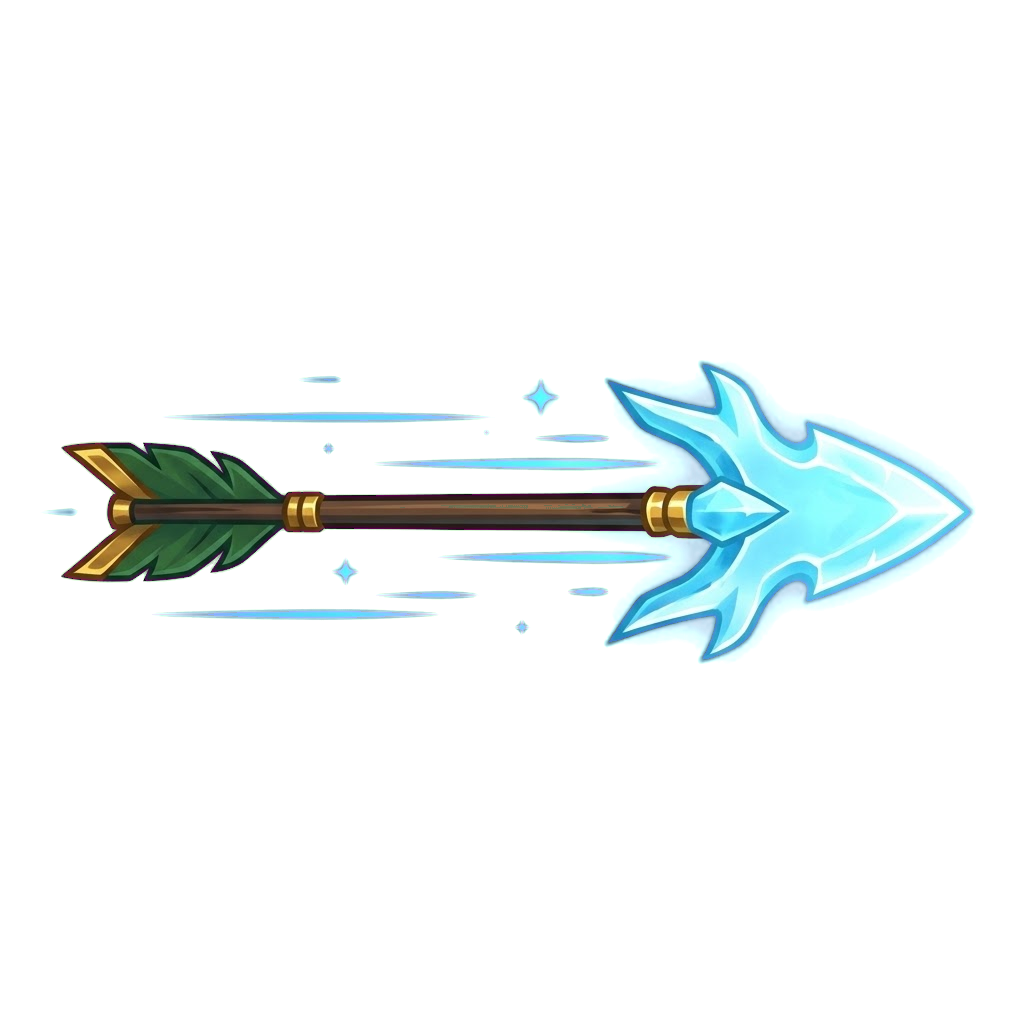
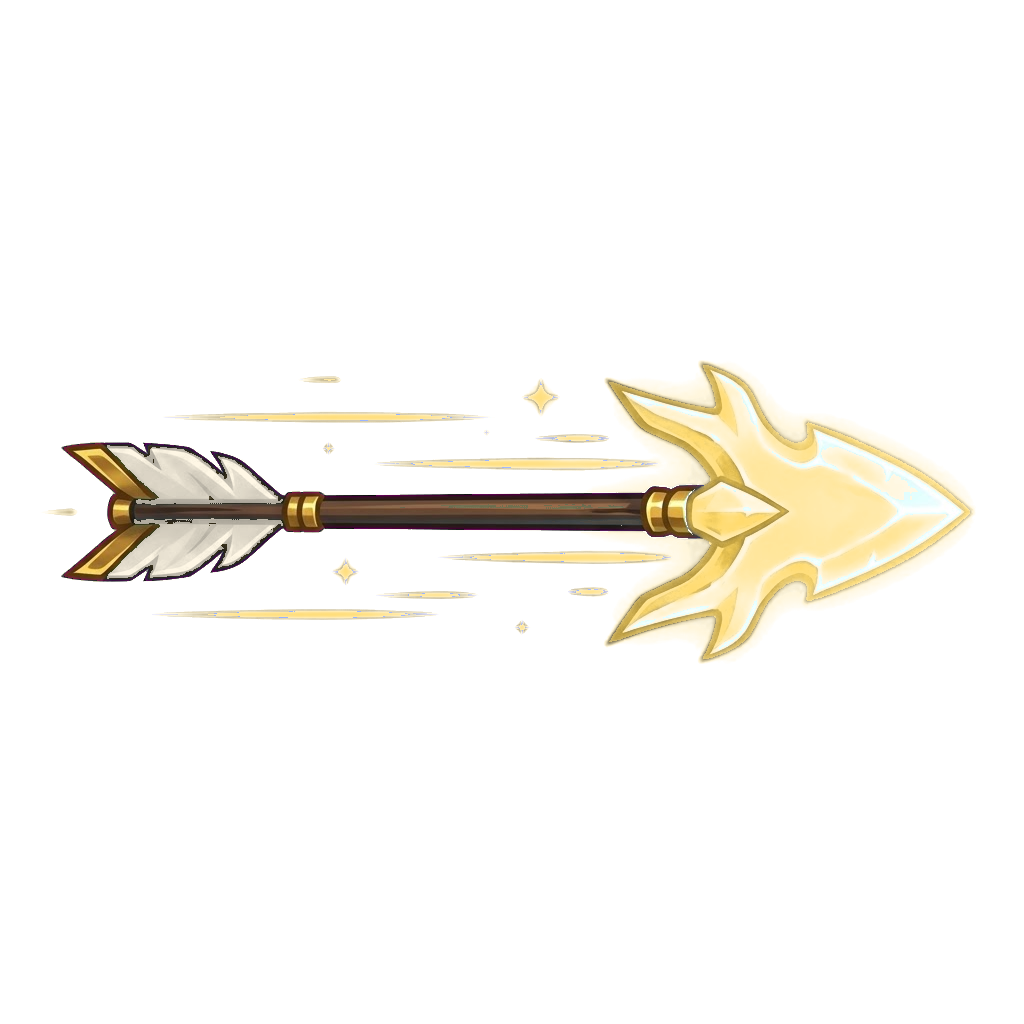
Tyra i falkvitt: pilen, träffen, glöden och fjäderspåret vita/guld i stället för isblått (Fenns spökljus hade samma färg); pilbilden omfärgad (guldspets, vita fjädrar); hennes V2-båge en fjärdedel längre i matchen (WeaponDef.MatchScale 1,25), menyn som förut. Rickard 18 nov: "falkvit låter bra" (des
Claude-Session: https://claude.ai/code/session_01M7eBmsdbX5dujjbvcNASSn

Changed region(s): [[0.0938, 0.3438, 0.9688, 0.6562], [0.3125, 0.5312, 0.3438, 0.5625]]

diff --git a/Assets/BAM/Art/Fx.cs b/Assets/BAM/Art/Fx.cs
@@ -1325,7 +1325,7 @@ namespace BAM.Art
         }
 
         // Each hero's two special colours (main, accent) from the MLBB clip analysis (bam-work/art/mlbb-miya/skill-fx-analys.md),
-        // index = HeroId: Bram, Fenn, Tyra, Moa, Knut, Tikta, Blast, Bonk, Hilde, Oaken, Kugg, Ragn, Nassla, Skrall, Ravna. Tyra keeps the cyan her bolt already has.
+        // index = HeroId: Bram, Fenn, Tyra, Moa, Knut, Tikta, Blast, Bonk, Hilde, Oaken, Kugg, Ragn, Nassla, Skrall, Ravna. Tyra's is white-gold since 2026-11-18 (Rickard "falkvit låter bra": her cyan was Fenn's pale blue; hero design review 16 Nov).
         static Vector3 lastBounce;
         static float lastBounceT = -10f;
 
@@ -1334,7 +1334,7 @@ namespace BAM.Art
 
         static readonly Color32[] heroMain =
         {
-            new Color32(255, 138, 42, 255), new Color32(191, 239, 255, 255), new Color32(180, 240, 255, 255), new Color32(255, 179, 0, 255),
+            new Color32(255, 138, 42, 255), new Color32(191, 239, 255, 255), new Color32(255, 226, 150, 255), new Color32(255, 179, 0, 255),
             new Color32(47, 140, 255, 255), new Color32(124, 255, 79, 255), new Color32(255, 90, 31, 255),
             new Color32(196, 140, 72, 255), // Bonk: club wood and dust
             new Color32(255, 150, 50, 255), // Hilde: powder flash
@@ -1437,12 +1437,13 @@ namespace BAM.Art
                     break;
                 case ProjKind.TyraBolt:
                     SpecialHit((int)HeroId.Tyra, p, 1f);
-                    ImpactRing(new Vector3(p.x, 0f, p.z), 1.1f, new Color(0.75f, 0.95f, 1f, 1f), 0.3f);
-                    Pow(p, 1, new Color32(180, 240, 255, 255), 0.9f, 0.16f);
-                    Rays(p, new Color(0.7f, 0.95f, 1f, 1f), 1.1f, 0.18f);
+                    // white-gold since 2026-11-18 (falkvit; the ice blue was Fenn's ghost light)
+                    ImpactRing(new Vector3(p.x, 0f, p.z), 1.1f, new Color(1f, 0.9f, 0.6f, 1f), 0.3f);
+                    Pow(p, 1, new Color32(255, 226, 150, 255), 0.9f, 0.16f);
+                    Rays(p, new Color(1f, 0.88f, 0.55f, 1f), 1.1f, 0.18f);
                     HitStar(p, Color.white, 1.3f, 0.18f);
-                    Stars(p, 3, new Color32(200, 245, 255, 255), 0.45f, 1.5f, 0.3f, 0.6f);
-                    Sparks(p, 8, new Color32(180, 240, 255, 255), 0.12f, 4f, 0.3f, 0.8f);
+                    Stars(p, 3, new Color32(255, 246, 215, 255), 0.45f, 1.5f, 0.3f, 0.6f);
+                    Sparks(p, 8, new Color32(255, 226, 150, 255), 0.12f, 4f, 0.3f, 0.8f);
                     break;
                 case ProjKind.MoaBolt:
                     // a soft honey splat: warm-white pop, drops flung out, a small honey ring (support colours, no streaks)
@@ -1597,11 +1598,12 @@ namespace BAM.Art
                 case ProjKind.TyraBolt:
                     // a bright ball of light at the head, thin streaks and wisps behind, and a faint line of light left lying along
                     // the path for half a second (Rickard 2026-10-28)
-                    Glow(p, 1, new Color32(200, 245, 255, 255), 0.75f, 0f, 0.08f);
-                    Stars(p, 1, new Color32(200, 245, 255, 255), 0.3f, 0.2f, 0.25f, 0f, 0.05f);
-                    SparksAlong(p, -dir, 1, new Color32(180, 240, 255, 255), 0.09f, 3f, 0.2f, 12f);
-                    if (Random.value < 0.5f) Wisps(p, 1, new Color32(170, 235, 255, 200), 0.35f, 0.3f, 0.4f, 0.4f, 0.05f);
-                    Glow(new Vector3(p.x, 0.15f, p.z), 1, new Color32(150, 225, 255, 110), 0.45f, 0f, 0.5f);
+                    // white-gold since 2026-11-18 (falkvit; was ice blue, the same as Fenn's ghost light)
+                    Glow(p, 1, new Color32(255, 246, 215, 255), 0.75f, 0f, 0.08f);
+                    Stars(p, 1, new Color32(255, 246, 215, 255), 0.3f, 0.2f, 0.25f, 0f, 0.05f);
+                    SparksAlong(p, -dir, 1, new Color32(255, 226, 150, 255), 0.09f, 3f, 0.2f, 12f);
+                    if (Random.value < 0.5f) Wisps(p, 1, new Color32(255, 240, 200, 200), 0.35f, 0.3f, 0.4f, 0.4f, 0.05f);
+                    Glow(new Vector3(p.x, 0.15f, p.z), 1, new Color32(255, 220, 140, 110), 0.45f, 0f, 0.5f);
                     break;
                 // a small glow at each arrow's head (0.3 blobbed the five heads into one near the bow, where they fly 0.17 tiles apart a
                 // tile out), embers rarer

diff --git a/Assets/BAM/Art/Weapons.cs b/Assets/BAM/Art/Weapons.cs
@@ -65,6 +65,10 @@ namespace BAM.Art
         /// in the fist's own grip, Unity's retargeted idle turned her hand so the bow lay level across her legs (ANIM-22).</summary>
         public Hold Menu;
         public int MenuSign;
+        /// <summary>Code only: the weapon's length in a match as a share of <see cref="Len"/> (0 = the same as on the menu stage). Tyra's
+        /// V2 bow 1.25 (Rickard 2026-11-18, hero design review 16 Nov: from the match camera her bow could not be seen at all); the
+        /// menu keeps Len, as he tuned it.</summary>
+        public float MatchScale;
         /// <summary>Which way the flat side of the run hold goes: 0 = as the idle votes (BAM's own pick), 1 or -1 fixed (Weapon Tuner
         /// "Walk: flip", Rickard 2026-10-30: "tyra i game norr och vänster gå blir pilbågen bakofram vänd").</summary>
         public int RunSign;
@@ -469,6 +473,7 @@ namespace BAM.Art
             // quiver on her back, slanting over her right shoulder. Her V2 rig has all its finger bones, so her fingers play the clips
             GearDef ty = g[(int)HeroId.Tyra];
             ty.Weapons[0].Model = "v2_tyra_bow";
+            ty.Weapons[0].MatchScale = 1.25f; // a quarter longer in a match, so the bow reads from the match camera (WeaponDef.MatchScale)
             ty.StillFingers = false;
             ty.Worn = new[] { new WornDef { Model = "v2_tyra_quiver", Bone = Chest, From = LArm, To = RArm, Height = 0.3f, At = new Vector3(0.03f, -0.2f, -0.08f), Turn = new Vector3(0f, 0f, -20f) } };
 
@@ -1292,14 +1297,18 @@ namespace BAM.Art
         void Place(int i)
         {
             WeaponDef W = defs[i];
-            float L = W.Len * figH, k = L / meshH[i] / handS[i];
+            float L = PlacedLen(W) * figH, k = L / meshH[i] / handS[i];
             Transform t = wT[i];
             bindP[i] = palmL[i] - handleV[i] * (W.Grip * L);
             bindS[i] = new Vector3(k, k, k);
             t.localPosition = bindP[i]; t.localRotation = bindR[i]; t.localScale = bindS[i];
             gripL[i] = new Vector3(shaftC[i].x, W.Grip * meshH[i], shaftC[i].z);
-            placedLen[i] = W.Len; placedGrip[i] = W.Grip;
+            placedLen[i] = PlacedLen(W); placedGrip[i] = W.Grip;
         }
+
+        // the length the weapon is placed at: Len, times its MatchScale away from the menu stage (OnMenu is set after the build, so
+        // the check in Tick places it again when it changes)
+        float PlacedLen(WeaponDef W) => OnMenu || W.MatchScale <= 0f ? W.Len : W.Len * W.MatchScale;
 
         // as MxOwnShield: on an anchor under the model, placed from the hand every frame (Tick), so it never lies flat with the wrist
         void AddShield(ShieldDef S, Animator an, float H, List<Renderer> rends, List<Material> op, List<Material> fd)
@@ -1476,7 +1485,7 @@ namespace BAM.Art
                 Transform t = wT[i];
                 if (t == null) continue;
                 WeaponDef W = defs[i];
-                if (W.Len != placedLen[i] || W.Grip != placedGrip[i]) Place(i);
+                if (PlacedLen(W) != placedLen[i] || W.Grip != placedGrip[i]) Place(i);
                 if ((W.Thrown || hideHeld) && (hideSide == 0 || hideSide > 0 != W.Left)) t.localScale = bindS[i] * show;
                 else if (t.localScale != bindS[i]) t.localScale = bindS[i]; // a held weapon put back by a swing during its throw
                 float rest = (1f - Mathf.Clamp01(actW)) * liveW;
@@ -2000,7 +2009,7 @@ namespace BAM.Art
                 Transform t = wT[i];
                 if (t == null) continue;
                 WeaponDef W = defs[i];
-                if (W.Len != placedLen[i] || W.Grip != placedGrip[i]) Place(i);
+                if (PlacedLen(W) != placedLen[i] || W.Grip != placedGrip[i]) Place(i);
                 Quaternion q = Quaternion.Inverse(root.rotation) * hand[i].rotation;
                 var v = new Vector4(q.x, q.y, q.z, q.w);
                 if (Vector4.Dot(v, refSum[i]) < 0f) v = -v; // an idle's frames are close together: summed on one side they average

diff --git a/Assets/BAM/Art/WorldViews.cs b/Assets/BAM/Art/WorldViews.cs
@@ -401,7 +401,7 @@ namespace BAM.Art
         {
             switch (k)
             {
-                case ProjKind.TyraBolt: c = new Color(0.7f, 0.95f, 1f, 0.9f); return true;
+                case ProjKind.TyraBolt: c = new Color(1f, 0.93f, 0.72f, 0.9f); return true; // white-gold (falkvit, 2026-11-18; was ice blue)
                 case ProjKind.MoaBolt: c = new Color(1f, 0.8f, 0.25f, 0.8f); return true;
                 case ProjKind.BlastFire: c = new Color(1f, 0.55f, 0.2f, 0.45f); return true; // a faint fuse-smoke streak behind the bomb
                 case ProjKind.TiktaNeedleSpecial: c = new Color(0.2f, 1f, 0.85f, 0.8f); return true;
@@ -672,8 +672,8 @@ namespace BAM.Art
                 // it went, and a short light pillar stands where it struck
                 if (kind == ProjKind.TyraBolt && hit)
                 {
-                    Fx.Spikes(vis.position, dir, new Color(0.75f, 0.95f, 1f, 1f), 1.4f, 0.2f);
-                    Fx.Pillar(new Vector3(vis.position.x, 0f, vis.position.z), 0.7f, 3f, new Color(0.7f, 0.95f, 1f, 0.8f), 0.3f);
+                    Fx.Spikes(vis.position, dir, new Color(1f, 0.9f, 0.6f, 1f), 1.4f, 0.2f); // white-gold (falkvit 2026-11-18)
+                    Fx.Pillar(new Vector3(vis.position.x, 0f, vis.position.z), 0.7f, 3f, new Color(1f, 0.88f, 0.55f, 0.8f), 0.3f);
                 }
             }
             launched = false;
@@ -756,7 +756,7 @@ namespace BAM.Art
             baseColor = k == ZoneKind.HoneyField ? new Color(1f, 0.78f, 0.2f, 1f)
                 : k == ZoneKind.Bramble ? new Color(0.55f, 0.85f, 0.2f, 0.45f) // Nässla's thicket: a lime-green floor (her own picture comes later)
                 : k == ZoneKind.FireLane ? new Color(1f, 0.45f, 0.08f, 0.35f) // a faint heat floor: the cracks and flames carry the look
-                : k == ZoneKind.FeatherTrail ? new Color(0.78f, 1f, 0.9f, 0.3f) // Tyra's wind: a pale mint floor, the feathers carry the look
+                : k == ZoneKind.FeatherTrail ? new Color(1f, 0.96f, 0.86f, 0.3f) // Tyra's wind: a pale cream floor (falkvit 2026-11-18; was mint), the feathers carry the look
                 : warn ? (t == Teams.Player ? new Color(1f, 1f, 1f, 0.6f) : new Color(1f, 0.12f, 0.1f, 1f))
                 : (t == Teams.Player ? new Color(1f, 0.6f, 0.15f, 1f) : new Color(1f, 0.15f, 0.12f, 1f));
             if (warn) mat.renderQueue = 2995; // over honey and fire, under unit rings
@@ -917,7 +917,7 @@ namespace BAM.Art
                 for (int i = 0; i < n; i++)
                 {
                     Vector3 side = new Vector3(dir.z, 0f, -dir.x) * (radius * (Random.value * 1.4f - 0.7f));
-                    Fx.Pic("tx_fx_tyra_feather", center + dir * (length * (i + Random.value) / n) + side, new Color(0.85f, 1f, 0.92f, 0.9f), radius * 1.4f, duration);
+                    Fx.Pic("tx_fx_tyra_feather", center + dir * (length * (i + Random.value) / n) + side, new Color(1f, 0.98f, 0.92f, 0.9f), radius * 1.4f, duration);
                 }
             }
             else if (kind == ZoneKind.HoneyField)
@@ -1052,8 +1052,8 @@ namespace BAM.Art
             else if (kind == ZoneKind.FeatherTrail)
             {
                 // the wind: pale streaks blowing along the bolt's way, so a player sees where the slow lies
-                Fx.SparksAlong(p + Vector3.up * 0.15f, dir, 1, new Color(0.85f, 1f, 0.95f, 0.8f), 0.05f, 2.2f, 0.35f, 10f);
-                if (Random.value < 0.3f) Fx.Glow(p, 1, new Color(0.7f, 1f, 0.85f, 0.6f), 0.2f, 0.1f, 0.4f, 0.6f);
+                Fx.SparksAlong(p + Vector3.up * 0.15f, dir, 1, new Color(1f, 0.97f, 0.88f, 0.8f), 0.05f, 2.2f, 0.35f, 10f); // cream white (falkvit 2026-11-18; was mint)
+                if (Random.value < 0.3f) Fx.Glow(p, 1, new Color(1f, 0.92f, 0.7f, 0.6f), 0.2f, 0.1f, 0.4f, 0.6f);
             }
             else if (kind == ZoneKind.HoneyField)
             {
